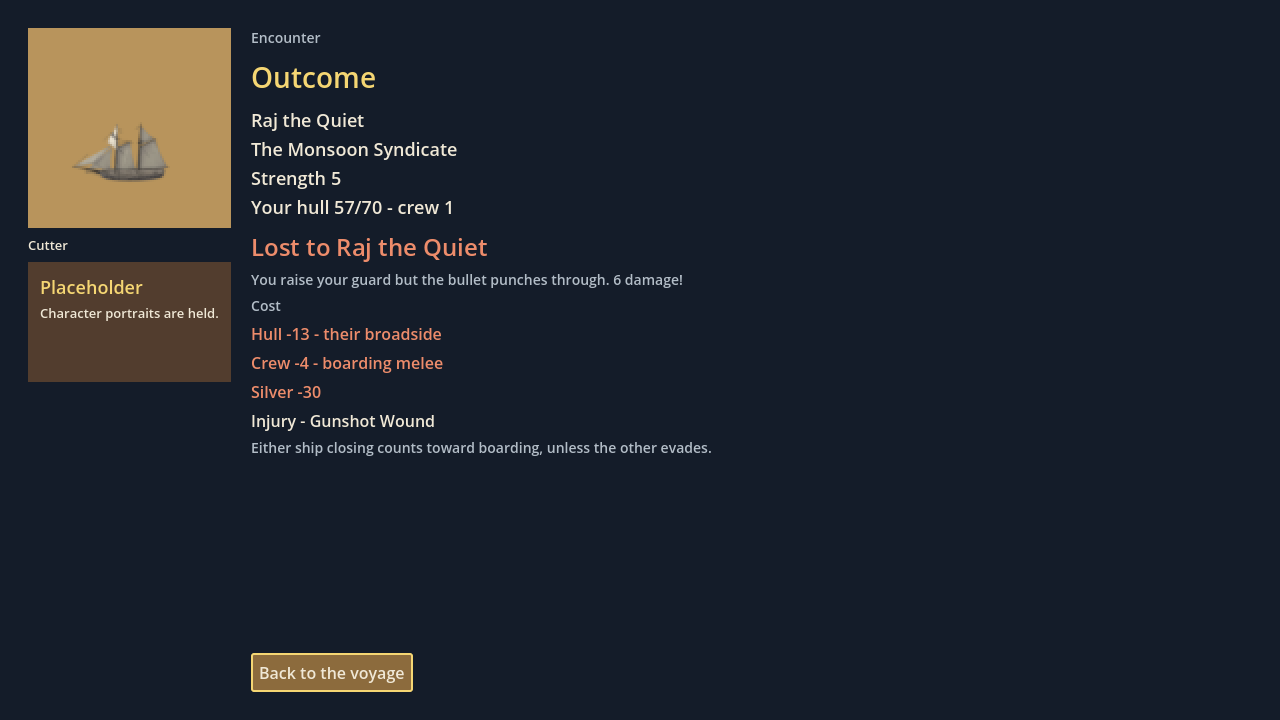
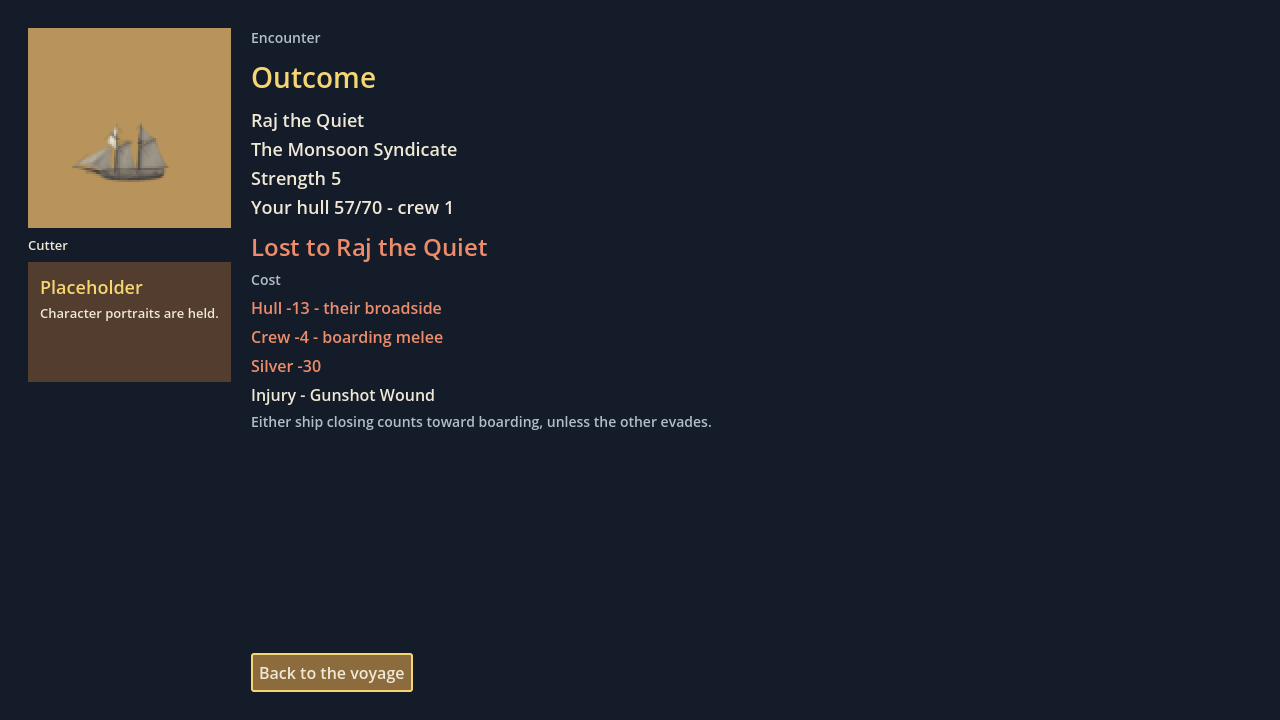
Recap: ammo loot row, no step note on a non-win, layout check on the won card
Ammo drops get a +N row from the sim's gained figure. A non-win card no
longer draws the closing step text as a note. The recap layout check now
runs on the won card too, logged as Recap smoke. Loss-outcome frame
re-shot.

Changed region(s): [[0.1875, 0.3667, 0.5625, 0.6417]]

diff --git a/crates/portlight-godot/src/recap.rs b/crates/portlight-godot/src/recap.rs
@@ -172,8 +172,6 @@ pub(crate) struct CombatFacts {
     pub standing: Option<(String, i64)>,
     /// Companion reactions and departures, passthrough.
     pub notes: Vec<String>,
-    /// A non-win's closing step text, drawn as its one note.
-    pub closing: String,
     pub deltas: [i64; 4],
     pub hull_by_cause: HullByCause,
     pub crew_by_cause: CrewByCause,
@@ -421,10 +419,11 @@ pub(crate) fn combat_recap(facts: &CombatFacts) -> Option<Recap> {
             }
         }
     }
+    // A non-win draws no note: the step text stays in the Log.
     let source: Vec<&String> = if win {
         facts.notes.iter().collect()
     } else {
-        std::iter::once(&facts.closing).collect()
+        Vec::new()
     };
     let notes: Vec<RecapRow> = source
         .into_iter()
@@ -696,7 +695,6 @@ pub(crate) struct RecapSeed {
     /// A step triggered boarding or a boarding step ran.
     pub reached_boarding: bool,
     /// The resolving step's own text (non-wins draw it as a note).
-    pub closing: String,
     /// Win receipt: purse, loot messages, standing, reactions and departures.
     pub purse: i64,
     pub loot: Vec<String>,
@@ -749,7 +747,8 @@ pub(crate) fn seed_victory(
 
 /// Loot rows from the receipt's drops: silver drops summed into one
 /// `+N silver`, cargo drops of the same good folded into one `{n} {Good}`
-/// (first-seen order), then the sim's other loot messages (`Found: ...`).
+/// (first-seen order), ammo as `+{gained} {Ammo}`, then the sim's other
+/// loot messages (`Found: ...`).
 pub(crate) fn fold_loot(
     drops: &[portlight_sim::loot::LootDrop],
     messages: &[String],
@@ -775,6 +774,24 @@ pub(crate) fn fold_loot(
             .into_iter()
             .filter(|(_, quantity)| *quantity > 0)
             .map(|(id, quantity)| format!("{quantity} {}", good_display_name(&id))),
+    );
+    // Ammo: the sim's gained figure (catalog bundle size times the drop),
+    // folded per kind like cargo.
+    let mut ammo: Vec<(String, i64)> = Vec::new();
+    for drop in drops.iter().filter(|drop| drop.item_type == "ammo") {
+        let Some(def) = portlight_sim::content::content().ammo(&drop.item_id) else {
+            continue;
+        };
+        let gained = def.quantity * drop.quantity;
+        match ammo.iter_mut().find(|(name, _)| name == &def.name) {
+            Some((_, total)) => *total += gained,
+            None => ammo.push((def.name.clone(), gained)),
+        }
+    }
+    rows.extend(
+        ammo.into_iter()
+            .filter(|(_, gained)| *gained > 0)
+            .map(|(name, gained)| format!("+{gained} {name}")),
     );
     rows.extend(
         messages
@@ -900,14 +917,6 @@ pub(crate) fn carry_seed(
         seed.reached_boarding = true;
     }
     if step.phase == "resolved" {
-        seed.closing = crate::logic::session_text(&step.message, &step.flavor)
-            .lines()
-            .map(str::trim)
-            .filter(|line| !line.is_empty())
-            .collect::<Vec<_>>()
-            .join(" ");
-    }
-    if step.phase == "resolved" {
         seed.plundered = step.player_crew <= 0 && !step.player_sunk;
     }
     seed
@@ -928,7 +937,6 @@ pub(crate) fn seed_facts(seed: &RecapSeed, name: &str) -> Option<CombatFacts> {
         loot: seed.loot.clone(),
         standing: seed.standing.clone(),
         notes: seed.notes.clone(),
-        closing: seed.closing.clone(),
         deltas: seed.deltas?,
         hull_by_cause: seed.hull_by_cause,
         crew_by_cause: seed.crew_by_cause,
@@ -1181,6 +1189,22 @@ mod tests {
     }
 
     #[test]
+    fn ammo_drops_get_their_gained_row() {
+        let drops = vec![
+            drop("ammo", "pistol_shot", 1),
+            drop("ammo", "pistol_shot", 2),
+            drop("ammo", "no_such_ammo", 1),
+        ];
+        let def = portlight_sim::content::content()
+            .ammo("pistol_shot")
+            .unwrap();
+        assert_eq!(
+            fold_loot(&drops, &[]),
+            vec![format!("+{} {}", def.quantity * 3, def.name)]
+        );
+    }
+
+    #[test]
     fn same_good_loot_drops_fold_into_one_row() {
         let drops = vec![
             drop("cargo", "spice", 3),
@@ -1323,7 +1347,7 @@ mod tests {
     }
 
     #[test]
-    fn a_non_win_draws_its_closing_line() {
+    fn a_non_win_draws_no_note_row() {
         let mut last = step("fight", "resolved");
         last.player_action = "parry".into();
         last.message = "You raise your guard but the bullet punches through. 6 damage!".into();
@@ -1331,18 +1355,15 @@ mod tests {
         seed.result = Some(RecapResult::Lost);
         seed.deltas = Some([-30, 0, 0, 0]);
         let recap = combat(&seed_facts(&seed, "Raj the Quiet").unwrap());
-        assert_eq!(
-            texts(&recap),
-            vec![
-                "You raise your guard but the bullet punches through. 6 damage!",
-                "Cost",
-                "Silver -30",
-            ]
-        );
-        assert_eq!(
-            recap_text(&recap),
-            "Lost to Raj the Quiet\nYou raise your guard but the bullet punches through. 6 damage!\nCost\nSilver -30"
-        );
+        assert!(recap.rows.iter().all(|r| r.section != RecapSection::Note));
+        assert_eq!(texts(&recap), vec!["Cost", "Silver -30"]);
+        for result in [RecapResult::Lost, RecapResult::Drew, RecapResult::BrokeAway] {
+            let mut facts = loss();
+            facts.result = Some(result);
+            facts.notes = vec!["A note.".into()];
+            let recap = combat(&facts);
+            assert!(recap.rows.iter().all(|r| r.section != RecapSection::Note));
+        }
     }
 
     #[test]

diff --git a/crates/portlight-godot/src/game.rs b/crates/portlight-godot/src/game.rs
@@ -10852,7 +10852,8 @@ impl PortlightGame {
         false
     }
 
-    /// Layout after a real frame: the block fits and Return clears the edge.
+    /// Layout after a real frame, for the loss and the won card: the block
+    /// fits and Return clears the edge.
     fn check_recap_layout(&mut self) {
         let Some(nodes) = self.encounter_nodes.as_ref() else {
             return;
@@ -10863,13 +10864,13 @@ impl PortlightGame {
         if block.size.y > 320.0 || bottom > 696.0 {
             self.smoke_ok = false;
             let line = format!(
-                "Loss-outcome smoke: recap height {} (max 320), actions bottom {bottom} (max 696)",
+                "Recap smoke: recap height {} (max 320), actions bottom {bottom} (max 696)",
                 block.size.y
             );
             godot_print!("{line}");
             self.push_log(line);
         } else {
-            godot_print!("loss-outcome recap layout ok height {}", block.size.y);
+            godot_print!("Recap smoke: layout ok height {}", block.size.y);
         }
     }
 
@@ -10964,6 +10965,7 @@ impl PortlightGame {
                 self.encounter_shot = Some(ShotPhase::RecapWon);
             }
             ShotPhase::RecapWon => {
+                self.check_recap_layout();
                 self.expect_returned();
                 self.leave_encounter();
                 self.report_encounter_smoke();
